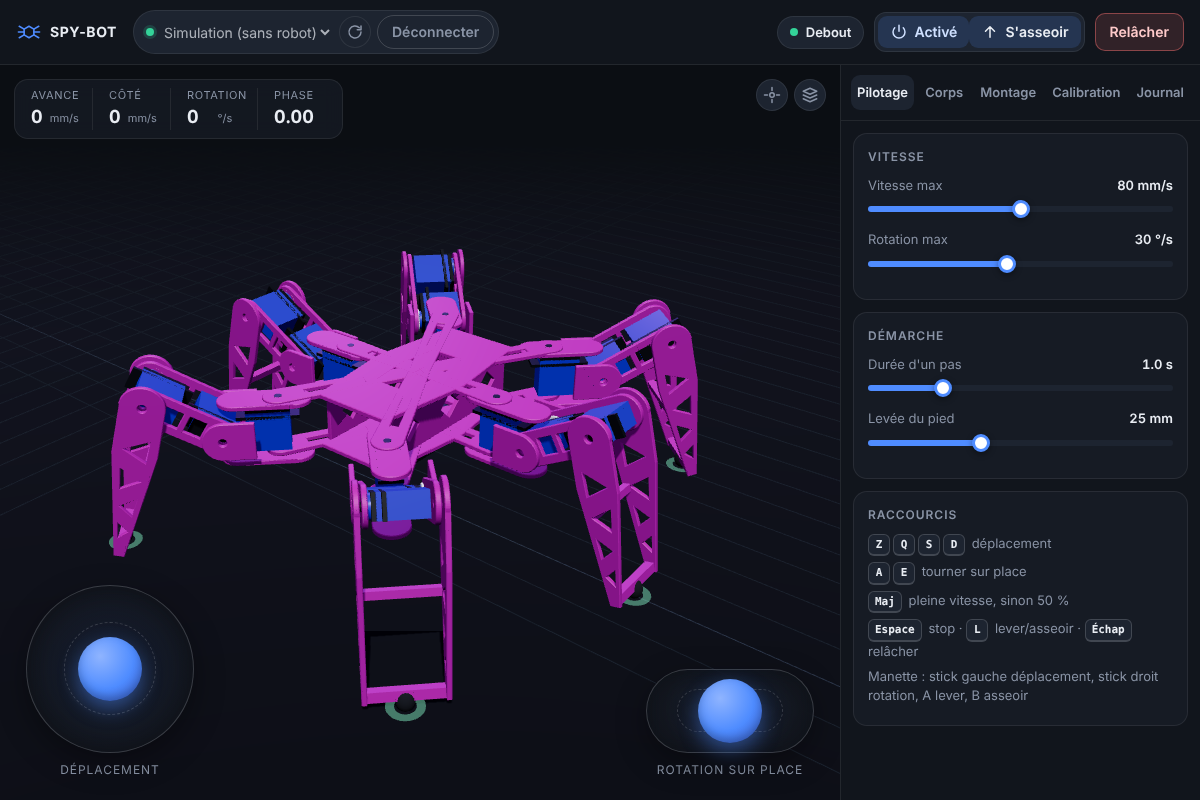
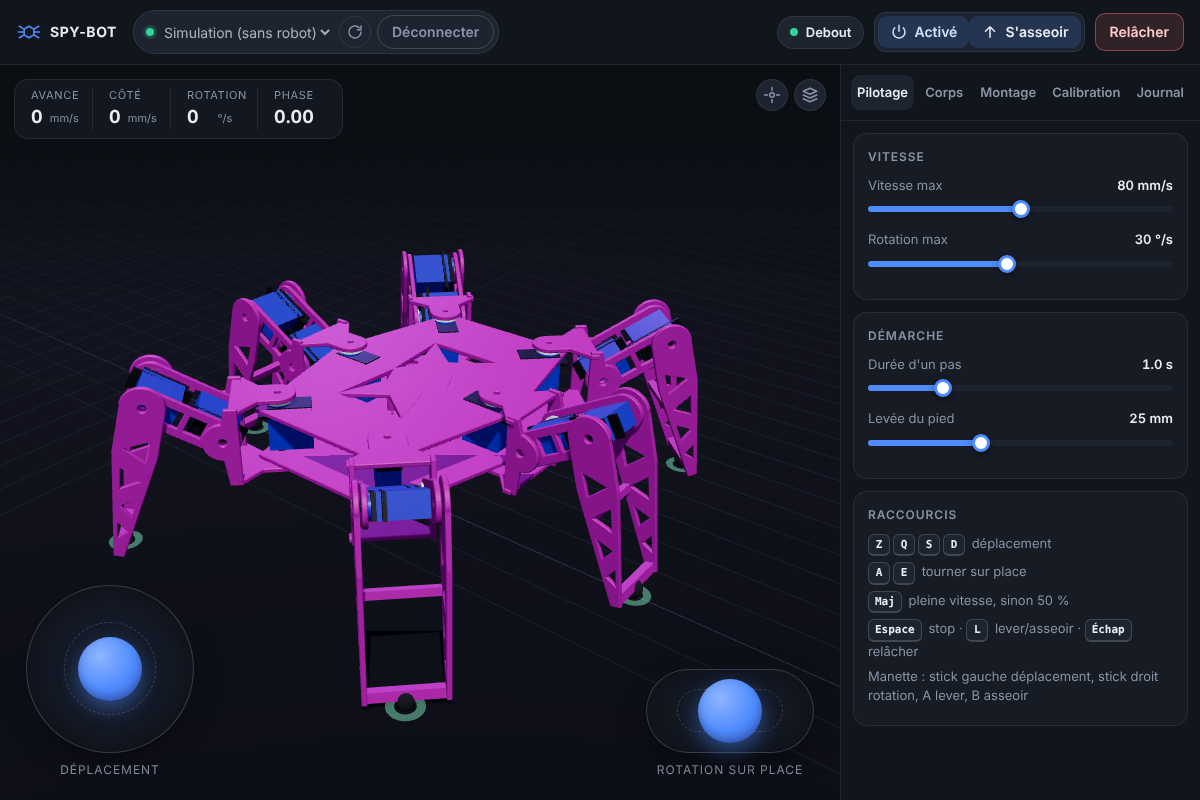
Mount the coxa servos inside the body in the 3D view
The coxa servo sits between the two body plates with its shaft on the
leg mount, so the thigh starts right at the body edge as on the robot.

Claude-Session: https://claude.ai/code/session_01XmU2tg6nWk1EtYR5mLrGrE

Changed region(s): [[0.185, 0.3438, 0.5242, 0.625], [0.2775, 0.6562, 0.37, 0.6875]]

diff --git a/pc/web/scene.js b/pc/web/scene.js
@@ -161,53 +161,40 @@ export class RobotView {
     this.robot.add(body);
     const info = { leg: null, link: -1, role: "frame" };
     const t = 3 * k;
-    const zPlate = 13 * k;
+    // Les servos de coxa sont pris entre les deux plaques du corps, leur axe sur
+    // la fixation de chaque patte : le contour des plaques passe autour des axes.
+    const zTop = 8 * k;
+    const zBottom = -16 * k - t;
     const order = ["RF", "RM", "RR", "LR", "LM", "LF"].map((n) => geom.legs.findIndex((l) => l.name === n));
+    const mounts = order.map((i) => new THREE.Vector2(geom.legs[i].x, geom.legs[i].y));
+    const grow = (p, d) => p.clone().multiplyScalar(1 + d / p.length());
 
-    for (const z of [zPlate, -zPlate - t]) {
-      // Bras en croix du centre vers chaque axe de coxa.
-      for (const leg of geom.legs) {
-        const len = Math.hypot(leg.x, leg.y);
-        const w = 5.5 * k;
-        const arm = new THREE.Shape();
-        arm.moveTo(0, -w);
-        arm.lineTo(len, -w * 1.4);
-        arm.absarc(len, 0, w * 1.4, -Math.PI / 2, Math.PI / 2, false);
-        arm.lineTo(0, w);
-        arm.closePath();
-        arm.holes.push(new THREE.Path().absarc(len, 0, 2 * k, 0, Math.PI * 2, true));
-        if (len > 40 * k) arm.holes.push(rectPath(len * 0.4, -w * 0.45, len - 14 * k, w * 0.45));
-        const m = this._add(body, extrude(arm, t), info);
-        m.rotation.z = Math.atan2(leg.y, leg.x);
-        m.position.z = z;
-      }
-      // Plaque centrale ajourée.
-      const pts = order.map((i) => new THREE.Vector2(geom.legs[i].body_x, geom.legs[i].body_y));
-      const plate = new THREE.Shape(pts);
-      plate.holes.push(new THREE.Path(pts.map((p) => p.clone().multiplyScalar(0.45)).reverse()));
+    for (const z of [zTop, zBottom]) {
+      const plate = new THREE.Shape(mounts.map((p) => grow(p, 12 * k)));
+      // Évidements triangulaires entre le centre et chaque paire de fixations.
+      mounts.forEach((p, i) => {
+        const q = mounts[(i + 1) % mounts.length];
+        const a = grow(p, -32 * k);
+        const b = grow(q, -32 * k);
+        const c = a.clone().add(b).multiplyScalar(0.3);
+        if (a.distanceTo(b) > 16 * k) plate.holes.push(new THREE.Path([c, b, a]));
+      });
+      mounts.forEach((p) => plate.holes.push(new THREE.Path().absarc(p.x, p.y, 2 * k, 0, Math.PI * 2, true)));
       const m = this._add(body, extrude(plate, t), info);
       m.position.z = z;
     }
 
-    // Parois latérales entre les fixations avant et arrière.
-    const corner = geom.legs.find((l) => l.name === "LF");
-    const wallLen = 2 * corner.body_x - 10 * k;
-    for (const side of [1, -1]) {
-      const h = zPlate;
-      const wall = new THREE.Shape();
-      wall.moveTo(-wallLen / 2, -h).lineTo(wallLen / 2, -h).lineTo(wallLen / 2, h).lineTo(-wallLen / 2, h).closePath();
-      for (let i = 0; i < 3; i++) {
-        const x0 = -wallLen / 2 + (i + 0.5) * (wallLen / 3);
-        const r = Math.min(8 * k, wallLen / 8);
-        wall.holes.push(new THREE.Path().moveTo(x0 - r, 0).lineTo(x0, -h * 0.6).lineTo(x0 + r, 0).lineTo(x0, h * 0.6).closePath());
-      }
-      const m = this._add(body, sidePlate(wall, t), info);
-      m.position.y = side * (corner.body_y - 4 * k) + (side > 0 ? t : 0);
+    // Entretoises entre les plaques, à côté de chaque servo de coxa.
+    for (const p of mounts) {
+      const post = this._add(body, new THREE.Mesh(new THREE.CylinderGeometry(2.5 * k, 2.5 * k, zTop - zBottom - t, 12), this.mats.frame), info);
+      const q = grow(p, -30 * k);
+      post.rotation.x = Math.PI / 2;
+      post.position.set(q.x, q.y, (zTop + zBottom + t) / 2);
     }
 
     // Batterie (LiPo 2S) au centre, sous le châssis.
     const battery = this._add(body, new THREE.Mesh(new THREE.BoxGeometry(48 * k, 26 * k, 14 * k), this.mats.servoDark));
-    battery.position.z = -zPlate - t - 7 * k;
+    battery.position.z = zBottom - 7 * k;
   }
 
   _buildLeg(geom, g, k) {
@@ -236,20 +223,34 @@ export class RobotView {
     const Y = new THREE.Vector3(0, 1, 0);
     const Z = new THREE.Vector3(0, 0, 1);
 
-    // --- cuisse (lien coxa) : servo de coxa vertical entre deux plaques, chape vers le fémur
-    this._servo(coxaJ, g.name, 0, Z, X, new THREE.Vector3(0, 0, 11 * k), k, 0);
-    for (const z of [12 * k, -17 * k - t]) {
-      const s = roundedSlot(-8 * k, geom.coxa - 6 * k, 9 * k);
+    // --- servo de coxa fixé dans le corps, boîtier vers l'intérieur ; la cuisse
+    // serre le palonnier au-dessus et l'axe libre en dessous, puis porte la chape du fémur.
+    this._servo(root, g.name, 0, Z, X.clone().negate(), new THREE.Vector3(0, 0, 11 * k), k, 0);
+    for (const z of [15 * k, -22 * k - t]) {
+      const c = geom.coxa;
+      const s = new THREE.Shape();
+      s.moveTo(0, 9 * k);
+      s.absarc(0, 0, 9 * k, Math.PI / 2, Math.PI * 1.5, false);
+      s.lineTo(c - 18 * k, -9 * k);
+      s.lineTo(c - 8 * k, -20 * k);
+      s.lineTo(c - 4 * k, -20 * k);
+      s.lineTo(c - 4 * k, 20 * k);
+      s.lineTo(c - 8 * k, 20 * k);
+      s.lineTo(c - 18 * k, 9 * k);
+      s.closePath();
       s.holes.push(new THREE.Path().absarc(0, 0, 2 * k, 0, Math.PI * 2, true));
       const m = this._add(coxaJ, extrude(s, t), info(0));
       m.position.z = z;
     }
     for (const side of [1, -1]) {
       const yoke = new THREE.Shape();
-      yoke.moveTo(geom.coxa - 16 * k, -10 * k);
+      // Flanc de la chape, du dessus au dessous de la cuisse, rond autour de l'axe du fémur.
+      yoke.moveTo(geom.coxa - 8 * k, -22 * k - t);
+      yoke.lineTo(geom.coxa - 2 * k, -22 * k - t);
       yoke.lineTo(geom.coxa, -10 * k);
       yoke.absarc(geom.coxa, 0, 10 * k, -Math.PI / 2, Math.PI / 2, false);
-      yoke.lineTo(geom.coxa - 16 * k, 10 * k);
+      yoke.lineTo(geom.coxa - 2 * k, 15 * k + t);
+      yoke.lineTo(geom.coxa - 8 * k, 15 * k + t);
       yoke.closePath();
       yoke.holes.push(new THREE.Path().absarc(geom.coxa, 0, 2.5 * k, 0, Math.PI * 2, true));
       const m = this._add(coxaJ, sidePlate(yoke, t), info(0));
